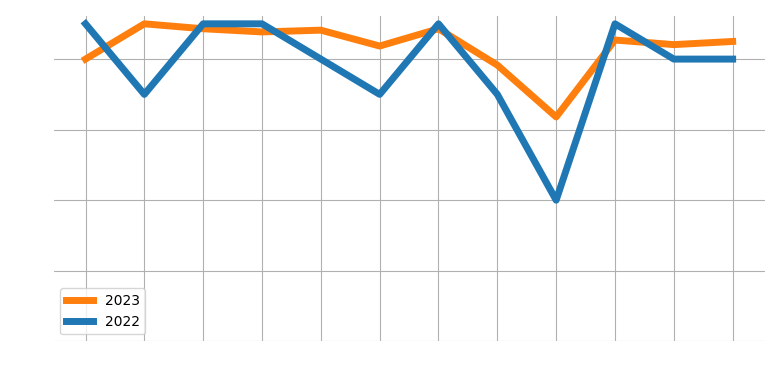
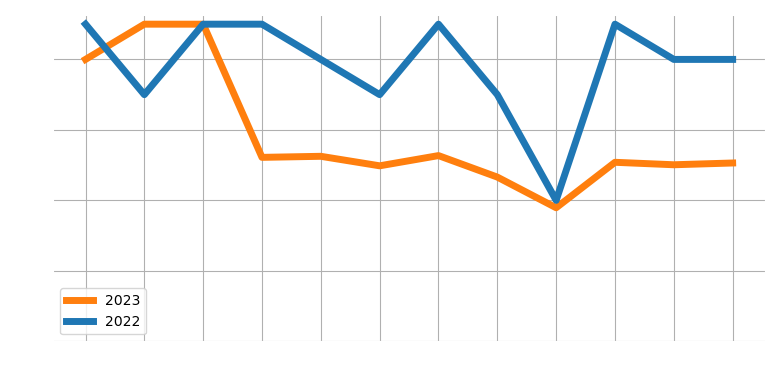
Update tm 23 april

diff --git a/energieverbruik.py b/energieverbruik.py
@@ -40,12 +40,12 @@ VORIG_JAAR = HUIDIG_JAAR - 1
 #
 # INVOEREN GEGEVENS HUIDIGE JAAR
 #
-MAAND = Month.mrt
-DAG_VAN_MAAND = 21
-DAGEN_IN_MAAND = 31
-VERBRUIK_GAS = 124
-VERBRUIK_ELEKTRICITEIT = 84
-VERBRUIK_WATER = 6
+MAAND = Month.apr
+DAG_VAN_MAAND = 23
+DAGEN_IN_MAAND = 30
+VERBRUIK_GAS = 72
+VERBRUIK_ELEKTRICITEIT = 92
+VERBRUIK_WATER = 4
 PRIJS_GAS = 1.39006
 PRIJS_ELEKTRICITEIT = 0.39802
 PRIJS_WATER = 1.021
